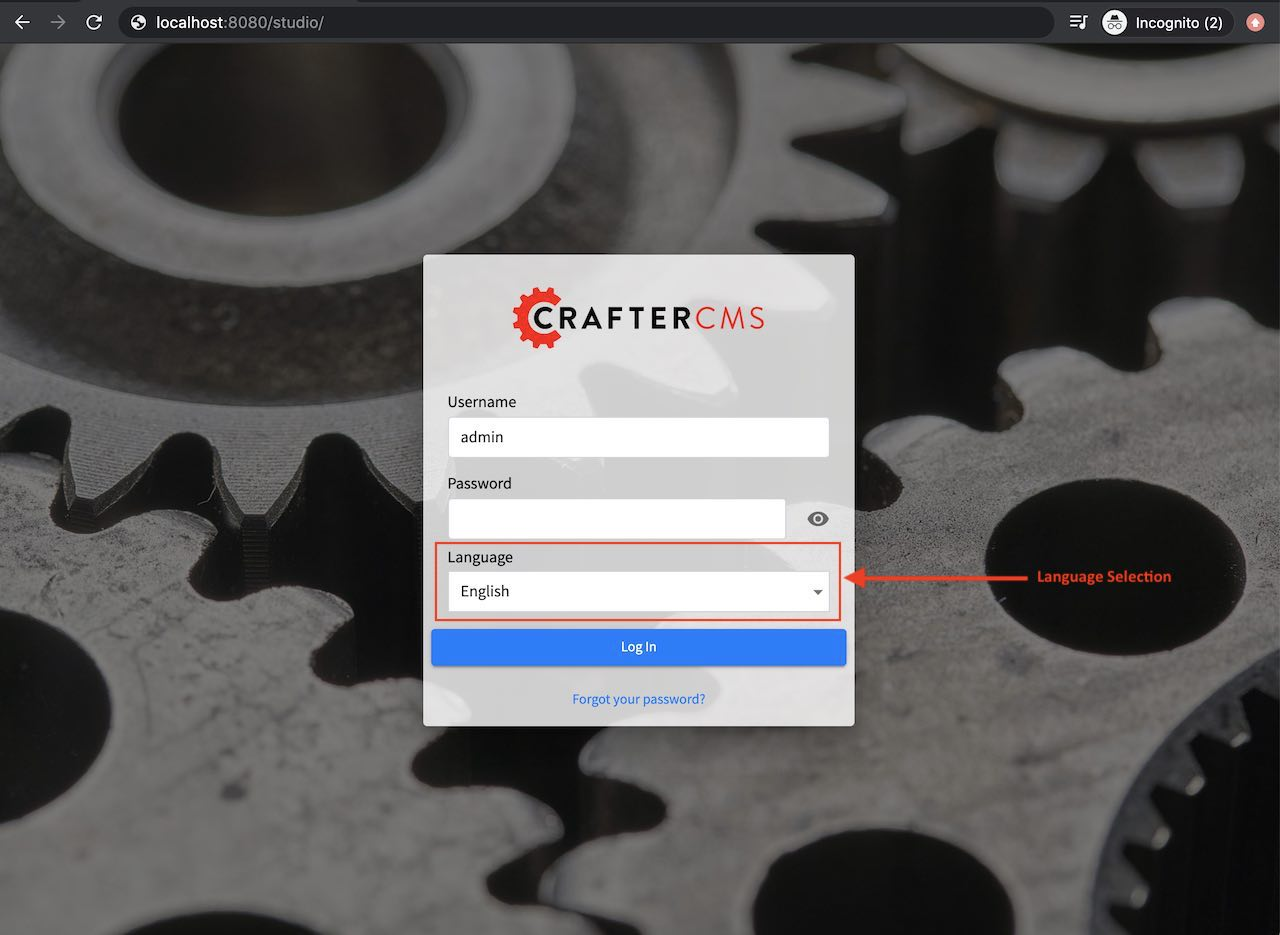
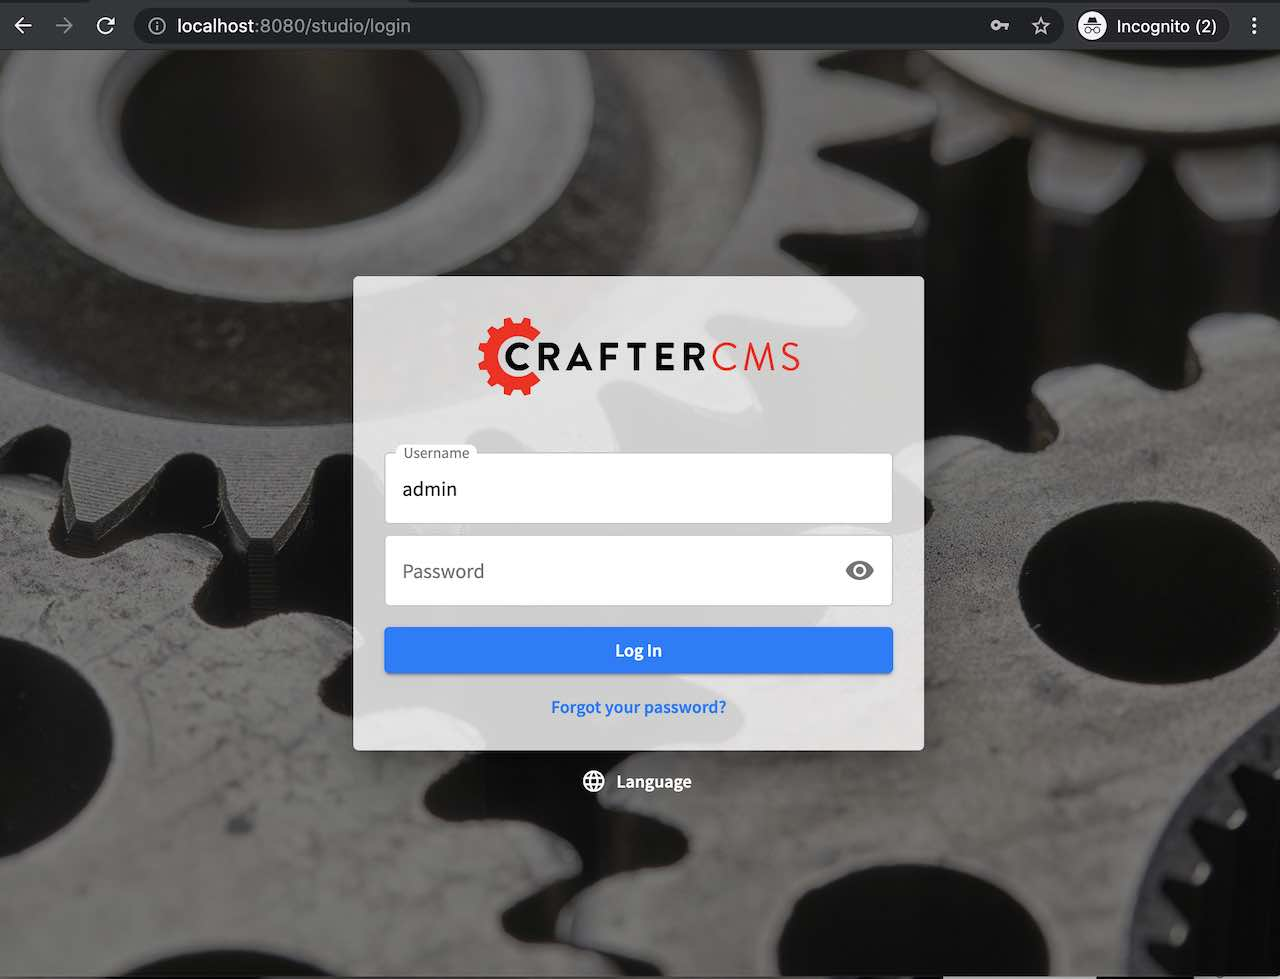
Update screen/text for content author getting started

diff --git a/source/content-authors/content-authors-getting-started.rst b/source/content-authors/content-authors-getting-started.rst
@@ -41,14 +41,14 @@ To log in to Crafter Studio:
     * Enter the following in the URL of your browser:  *http://SERVERNAMEHERE/studio*
     * Enter your user name
     * Enter your password
-    * Click "Sign in"
+    * Click "Log In"
 
 .. image:: /_static/images/content-author/login-screen-full.jpg
     :alt: Getting Started - Login Screen
-    :width: 95 %
+    :width: 85 %
     :align: center
     
-Note: You can change the language used for the Studio UI by selecting a language on the log in screen.
+Note: You can change the language used for the Studio UI by clicking on ``Language`` on the log in screen.
 
 ^^^^^
 Roles
